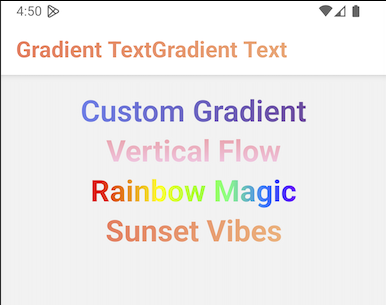
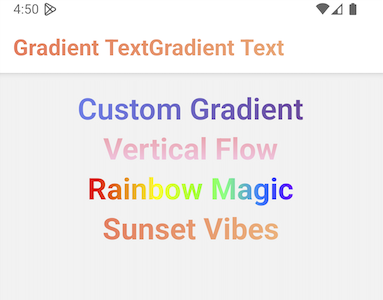
fix: update preview image heights

diff --git a/README.md b/README.md
@@ -81,8 +81,8 @@ start={{ x: 1, y: 0 }} end={{ x: 0, y: 1 }}
 
 ### Previews
 
-<img src="images/preview.png"  height="320" style="border-top-left-radius: 16px; border-top-right-radius: 16px" alt="Preview" />
-<img src="images/preview-android.png"  height="320" style="border-top-left-radius: 16px; border-top-right-radius: 16px" alt="Preview" />
+<img src="images/preview.png"  height="260" style="border-top-left-radius: 16px; border-top-right-radius: 16px" alt="Preview" />
+<img src="images/preview-android.png"  height="260" style="border-top-left-radius: 16px; border-top-right-radius: 16px" alt="Preview" />
 
 ### Custom Colors
 
